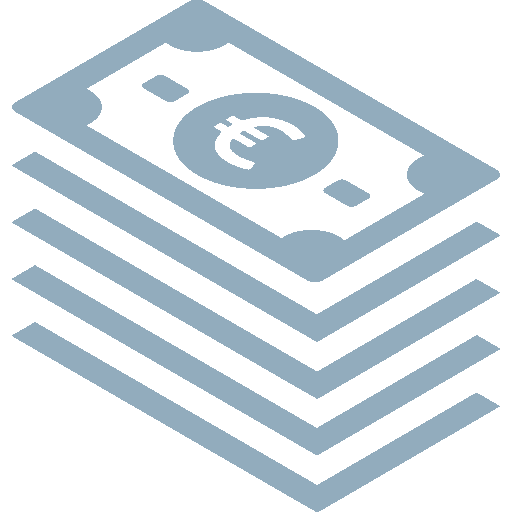
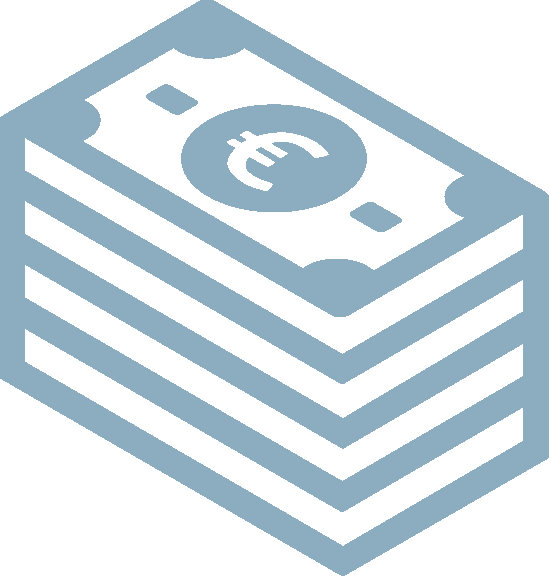
commit6
HTML 1.01
- Ajout d'un div container pour centrer verticalement le contenu dans la fenêtre du navigateur
- Modification du crédit icônes
CSS 1.0
- Ajout de la class .container
- Ajout de styles pour supprimer les flèches dans les inputs sur Chrome et Opéra
- Modification du curseur de .tableau
Js/jQuery 1.1
- résolution de bugs (virgule dans les frais de souscription et gestion)

ARBORESCENCE
- changement liasse100.png et ajout de logo.png

diff --git a/index.html b/index.html
@@ -2,24 +2,21 @@
 <html lang="fr" >
 <head>
   <meta charset="UTF-8">
-  <title>HTML FinancePourTous
-  </title>
-  <!-- <link rel='stylesheet' href='https://unpkg.com/ionicons@4.5.10-0/dist/css/ionicons.min.css'> -->
+  <title>Simulateur d'assurance-vie par Virgile Mendes</title>
+  <link rel="icon" type="image/png" href="assets/png/logo.png"/>
+
   <script type="text/javascript" src="assets/js/jquery-2.1.3.js"></script>
   <script src="assets/js/app.js"></script>
-  
 
   <link rel="stylesheet" href="assets/styles/style-fonts.css">
   <link rel="stylesheet" href="assets/styles/style-position.css">
   <link rel="stylesheet" href="assets/styles/style-neuphormic.css">
   <link rel="stylesheet" href="assets/styles/style-ajustement.css">
-
-
   <link rel="stylesheet" href="assets/styles/style-slider.css">
-
 
 </head>
 <body>
+<div class="container">
 
   <!-- Titre et sous-titre-->
   <div class="haut">
@@ -282,11 +279,11 @@
   <!-- Footer -->
   <div class="bas">
     <h2>Réalisé par Virgile Mendes</h2>
-    <a href="simulateur-documentation-MENDES-Virgile.pdf">👉 Documentation du projet 👈</a>
-    <p>Icônes réalisées par Gregor Cresnar à partir de www.flaticon.com <br>Chiffres provenant de la FFA, La finance pous tous, Le Parisien et la FIFA</p>
+    <a href="simulateur-documentation-MENDES-Virgile.pdf"target="_blank">👉 Documentation du projet 👈</a>
+    <p>Icônes réalisées par <a href="https://iconix.si/" target="_blank">Gregor Cresnar</a> (Creative Commons BY)<br>Chiffres provenant de la FFA, La finance pous tous, Le Parisien et la FIFA</p>
 
   </div>
   
-
+</div>
 </body>
 </html>

diff --git a/assets/js/app.js b/assets/js/app.js
@@ -247,8 +247,21 @@ $(document).ready(function() {
       partUc = 100-partEurosAvances;
       console.log(partUc);
     } else {
-      // console.log('else');
+      console.log('else');
     }
+
+
+    fraisSouscription = fraisSouscriptionFunction ();
+    fraisSouscription = parseFloat(fraisSouscription);
+    console.log(fraisSouscription);
+    
+
+    fraisGestion = fraisGestionFunction ();
+    fraisGestion = parseFloat(fraisGestion);
+    console.log(fraisGestion);
+
+
+
 
     var resultatTotal = calculSimulation (sommeMois,sommeAnniversaire,partEuros,partUc,fraisSouscription,fraisGestion,impot);
     console.log (resultatTotal);
@@ -475,7 +488,22 @@ $(document).ready(function() {
 
 
   function partUeAvancesFunction (){
-    var i = parseInt(partEurosAvances);
-    console.log(i);
-    return i;
+    var partUeAvancesNumber = parseInt(partEurosAvances);
+    console.log(partUeAvancesNumber);
+    return partUeAvancesNumber;
+  }
+
+  function fraisSouscriptionFunction (){
+    var fraisSouscriptionNumber = fraisSouscription.toString().replace(',','.');
+    fraisSouscriptionNumber = parseFloat(fraisSouscriptionNumber);
+    console.log(fraisSouscriptionNumber);
+    return fraisSouscriptionNumber;
+  }
+
+
+  function fraisGestionFunction (){
+    var fraisGestionNumber = fraisGestion.toString().replace(',','.');
+    fraisGestionNumber = parseFloat(fraisGestionNumber);
+    console.log(fraisGestionNumber);
+    return fraisGestionNumber;
   }

diff --git a/assets/styles/style-ajustement.css b/assets/styles/style-ajustement.css
@@ -81,10 +81,24 @@
 /*Modification des inputs*/
 
   /* enlever les flèches à droite */
-  input{
+    /* Firefox */
+    input[type=number] {
+      -moz-appearance: textfield;
+    }
+
+    /* Chrome */
+    input::-webkit-inner-spin-button,
+    input::-webkit-outer-spin-button { 
     -webkit-appearance: none;
-    -moz-appearance: textfield;
-  }
+    margin:0;
+    }
+
+    /* Opéra*/
+    input::-o-inner-spin-button,
+    input::-o-outer-spin-button { 
+    -o-appearance: none;
+    margin:0
+    }
 
   /*parametres font*/
   input {
@@ -185,6 +199,7 @@
   width: 39px;
   height: 26px;
   font-size: 16px;
+  font-weight: 500;
   padding-top: 0px;
   padding-bottom: 0px;
   padding-left: 0px;
@@ -196,10 +211,6 @@
 }
 
 
-
-.legende-fraisSouscription > span:nth-child(1), .legende-fraisGestion > span:nth-child(1) {
-  /* margin-top: 36px; */
-}
 
 
 
@@ -268,4 +279,12 @@
  a:hover {
    font-weight: 700;
  }
- 
+
+
+
+ .container {
+   position: relative;
+   width: 1280px;
+   margin: 0 auto;
+}
+ }

diff --git a/assets/styles/style-neuphormic.css b/assets/styles/style-neuphormic.css
@@ -63,6 +63,7 @@ button:active {
 .tableau {
   border-radius: 20px;
   padding: 0px;
+  cursor: default;
 }
 
 
